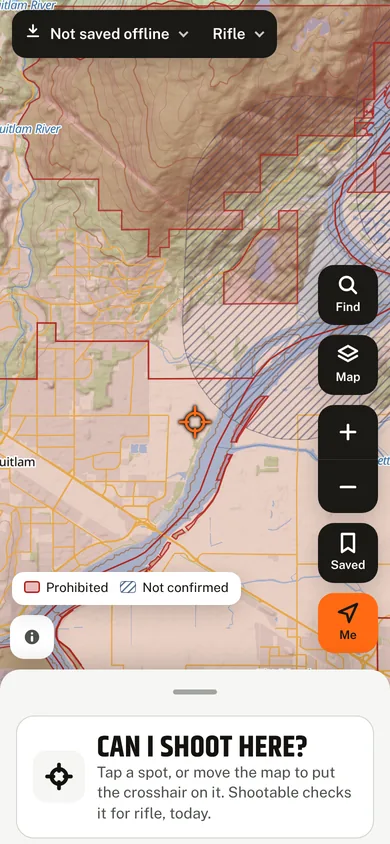
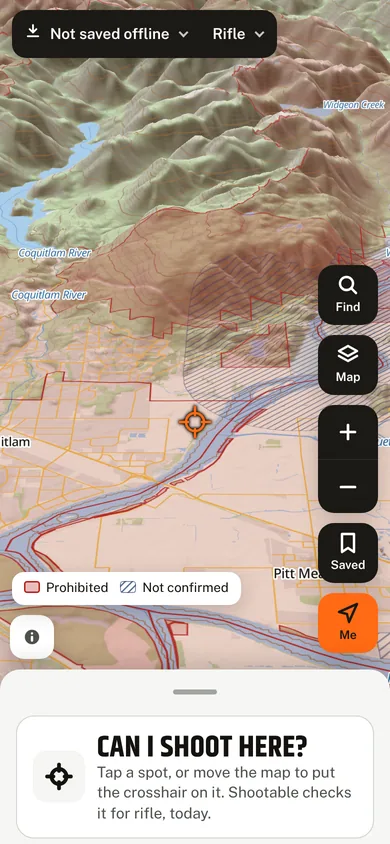
Landing: the firearm map pair in 3D (from shootable's web/) (#12)

diff --git a/index.html b/index.html
@@ -461,11 +461,11 @@ dialog.ea::backdrop{background:rgba(20,18,15,.72)}
 </div>
 <div class="pair">
 <figure class="on" data-fig="rifle">
-<div class="phone"><img src="img/app-tricities-rifle.webp" srcset="img/app-tricities-rifle-1x.webp 390w, img/app-tricities-rifle.webp 780w" sizes="340px" width="390" height="844" loading="lazy" alt="Shootable's map of Coquitlam and Pitt Meadows with Rifle chosen: both towns shaded red for Prohibited, the hills to the north and the river corridors hatched navy for Not confirmed."></div>
+<div class="phone"><img src="img/app-tricities-rifle.webp" srcset="img/app-tricities-rifle-1x.webp 390w, img/app-tricities-rifle.webp 780w" sizes="340px" width="390" height="844" loading="lazy" alt="Shootable's map of Coquitlam and Pitt Meadows in 3D with Rifle chosen: both towns shaded red for Prohibited, the mountains to the north raised over the terrain, and the river corridors hatched navy for Not confirmed."></div>
 <figcaption><b>Rifle</b><span>Coquitlam and Pitt Meadows ban rifles town-wide, so both towns are red.</span></figcaption>
 </figure>
 <figure data-fig="shot">
-<div class="phone"><img src="img/app-tricities-shot.webp" srcset="img/app-tricities-shot-1x.webp 390w, img/app-tricities-shot.webp 780w" sizes="340px" width="390" height="844" loading="lazy" alt="The same map with Shotgun with shot chosen: Coquitlam and Pitt Meadows now hatched navy for Not confirmed instead of red."></div>
+<div class="phone"><img src="img/app-tricities-shot.webp" srcset="img/app-tricities-shot-1x.webp 390w, img/app-tricities-shot.webp 780w" sizes="340px" width="390" height="844" loading="lazy" alt="The same 3D map with Shotgun with shot chosen: Coquitlam and Pitt Meadows now hatched navy for Not confirmed instead of red."></div>
 <figcaption><b>Shotgun with shot</b><span>Their bylaws allow shot in mapped zones. Until Shootable has checked those maps, the towns are Not confirmed.</span></figcaption>
 </figure>
 </div>
